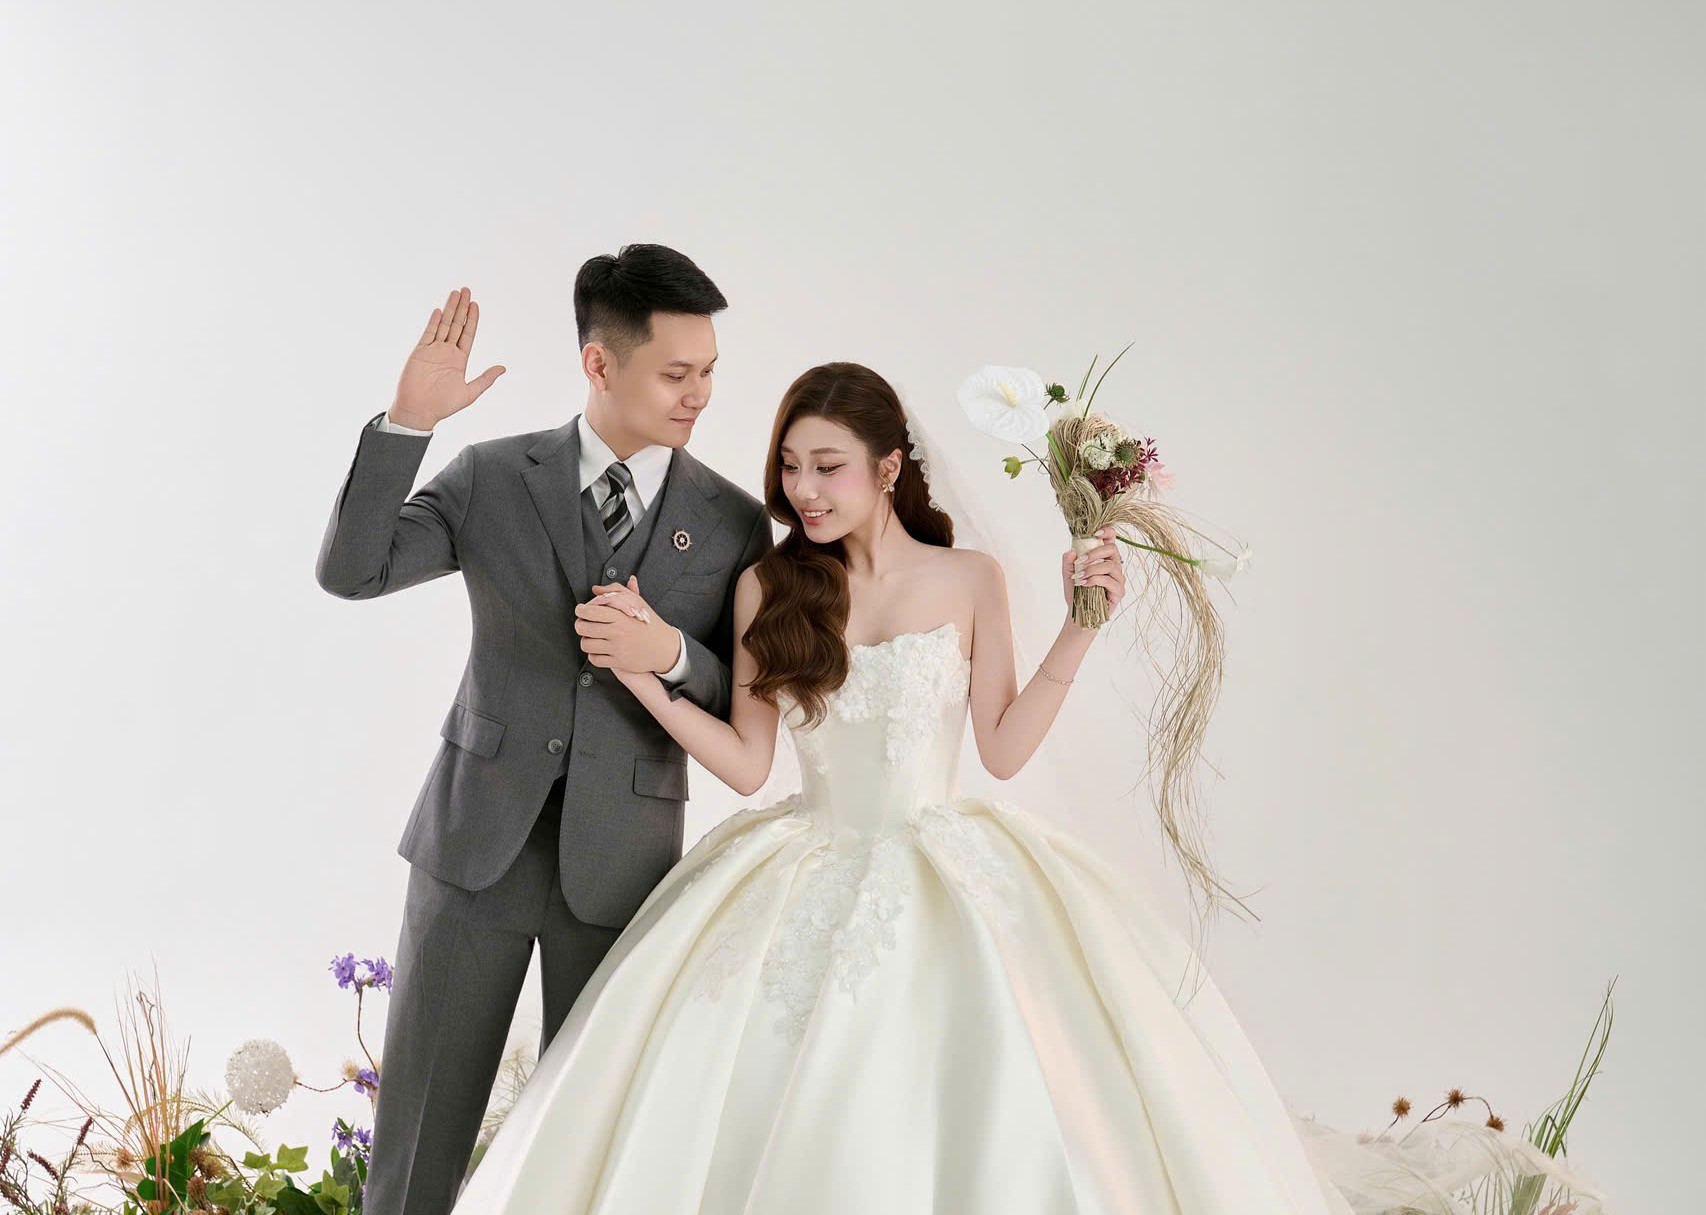
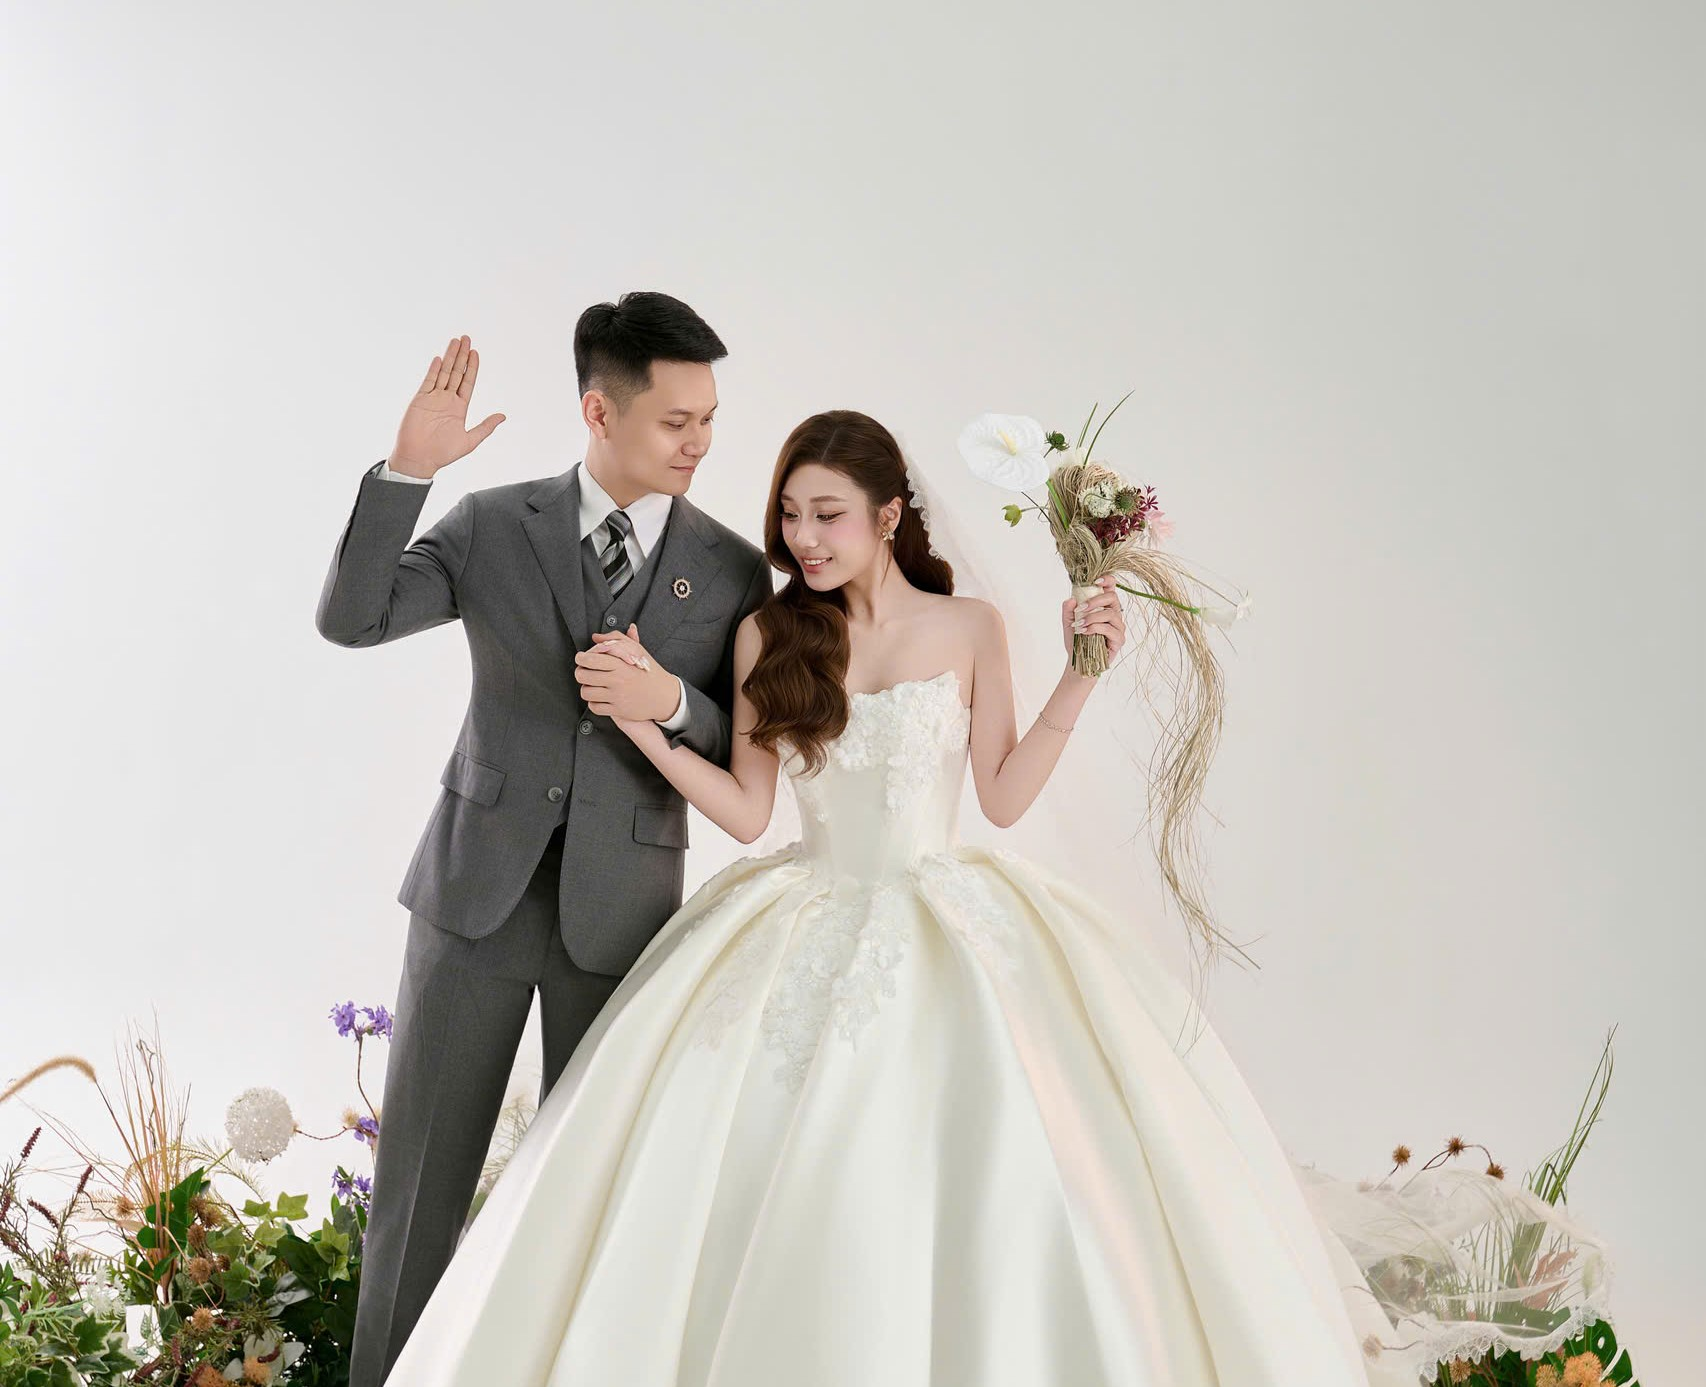
Add robots.txt allowlisting facebookexternalhit and update image dimensions

diff --git a/index.html b/index.html
@@ -48,7 +48,7 @@
         content="https://huytien-thanhtam.uwedding.online/images/huytien-thanhtam.jpg" />
     <meta property="og:image:type" content="image/jpeg" />
     <meta property="og:image:width" content="1706" />
-    <meta property="og:image:height" content="1215" />
+    <meta property="og:image:height" content="1387" />
     <meta property="og:image:alt" content="Huy Tiến 💗 Thanh Tâm" />
     <meta property="og:site_name" content="Huy Tiến 💗 Thanh Tâm" />
 
